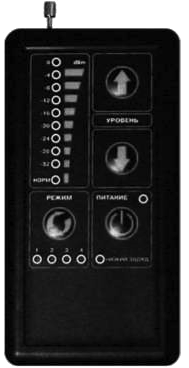
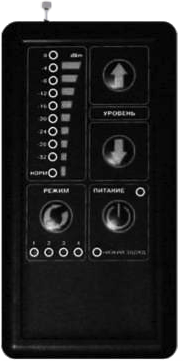
textures update

diff --git a/mainwindow.h b/mainwindow.h
@@ -124,7 +124,8 @@ public:
                     item_full_lamps->setFlag(QGraphicsItem::ItemIgnoresTransformations);
                     item_full_lamps->setVisible(1);
                     //item_full_lamps->setRotation(270);
-                    item_full_lamps->setScale(0.63217);
+                    //item_full_lamps->setScale(1);
+                    item_full_lamps->setOffset(183, 654);
                     this->pushItem(item_full_lamps);
                 }
                 else {
@@ -132,14 +133,15 @@ public:
                     this->list_of_l.clear();
                     this->list_of_lamps.clear();
                     QPixmap* full_lamps = new QPixmap();
-                    full_lamps->load(":/new/prefix1/1 lamp.png");
+                    full_lamps->load(":/new/prefix1/full_lamps.png");
                     Pixmap *item_full_lamps = new Pixmap(*full_lamps);
                     //item_full_lamps->setOffset(-kvadrat->width()/2, -kvadrat->height()/2);
-                    item_full_lamps->setPos(0, 190.92);
+                    item_full_lamps->setPos(0, 0);
                     item_full_lamps->setFlag(QGraphicsItem::ItemIgnoresTransformations);
                     item_full_lamps->setVisible(1);
                     //item_full_lamps->setRotation(270);
-                    item_full_lamps->setScale(0.6);
+                    //item_full_lamps->setScale(0.6);
+                    item_full_lamps->setOffset(183, 361);
                     this->pushItem(item_full_lamps);
                 }
 
@@ -199,7 +201,7 @@ public:
 
       if(flag) {
         QPixmap* full_lamps = new QPixmap();
-        full_lamps->load(":/new/prefix1/1 lamp.png");
+        full_lamps->load(":/new/prefix1/full_lamps.png");
         Pixmap *item_full_lamps = new Pixmap(*full_lamps);
         //item_full_lamps->setOffset(-kvadrat->width()/2, -kvadrat->height()/2);
         item_full_lamps->setPos(0, 190.92);

diff --git a/mainwindow.cpp b/mainwindow.cpp
@@ -989,21 +989,14 @@ void MainWindow::light_switch(int level)
             lamps->load(":/new/prefix1/1lamps_A.png");
             break;
         }
-
-
-
-
         //auto* x = this->item;
         this->item = new Pixmap(*lamps);
         //item_full_lamps->setOffset(-kvadrat->width()/2, -kvadrat->height()/2);
         this->item->setPos(0,0);
         //item_lamps->setFlag(QGraphicsItem::ItemIgnoresTransformations);
         this->item->setVisible(1);
-        this->item->setScale(0.63217);
-        //item_lamps->setRotation(270);
+        this->item->setOffset(183, 654);
         this->scene_for_lights->pushItem(this->item);
-        /*if(this->item != x)
-            this->scene_for_lights->removeItem(x);*/
 
         scene_for_lights->list_of_lamps.push_back(this->item);
         scene_for_lights->list_of_l.push_back(lamps);
